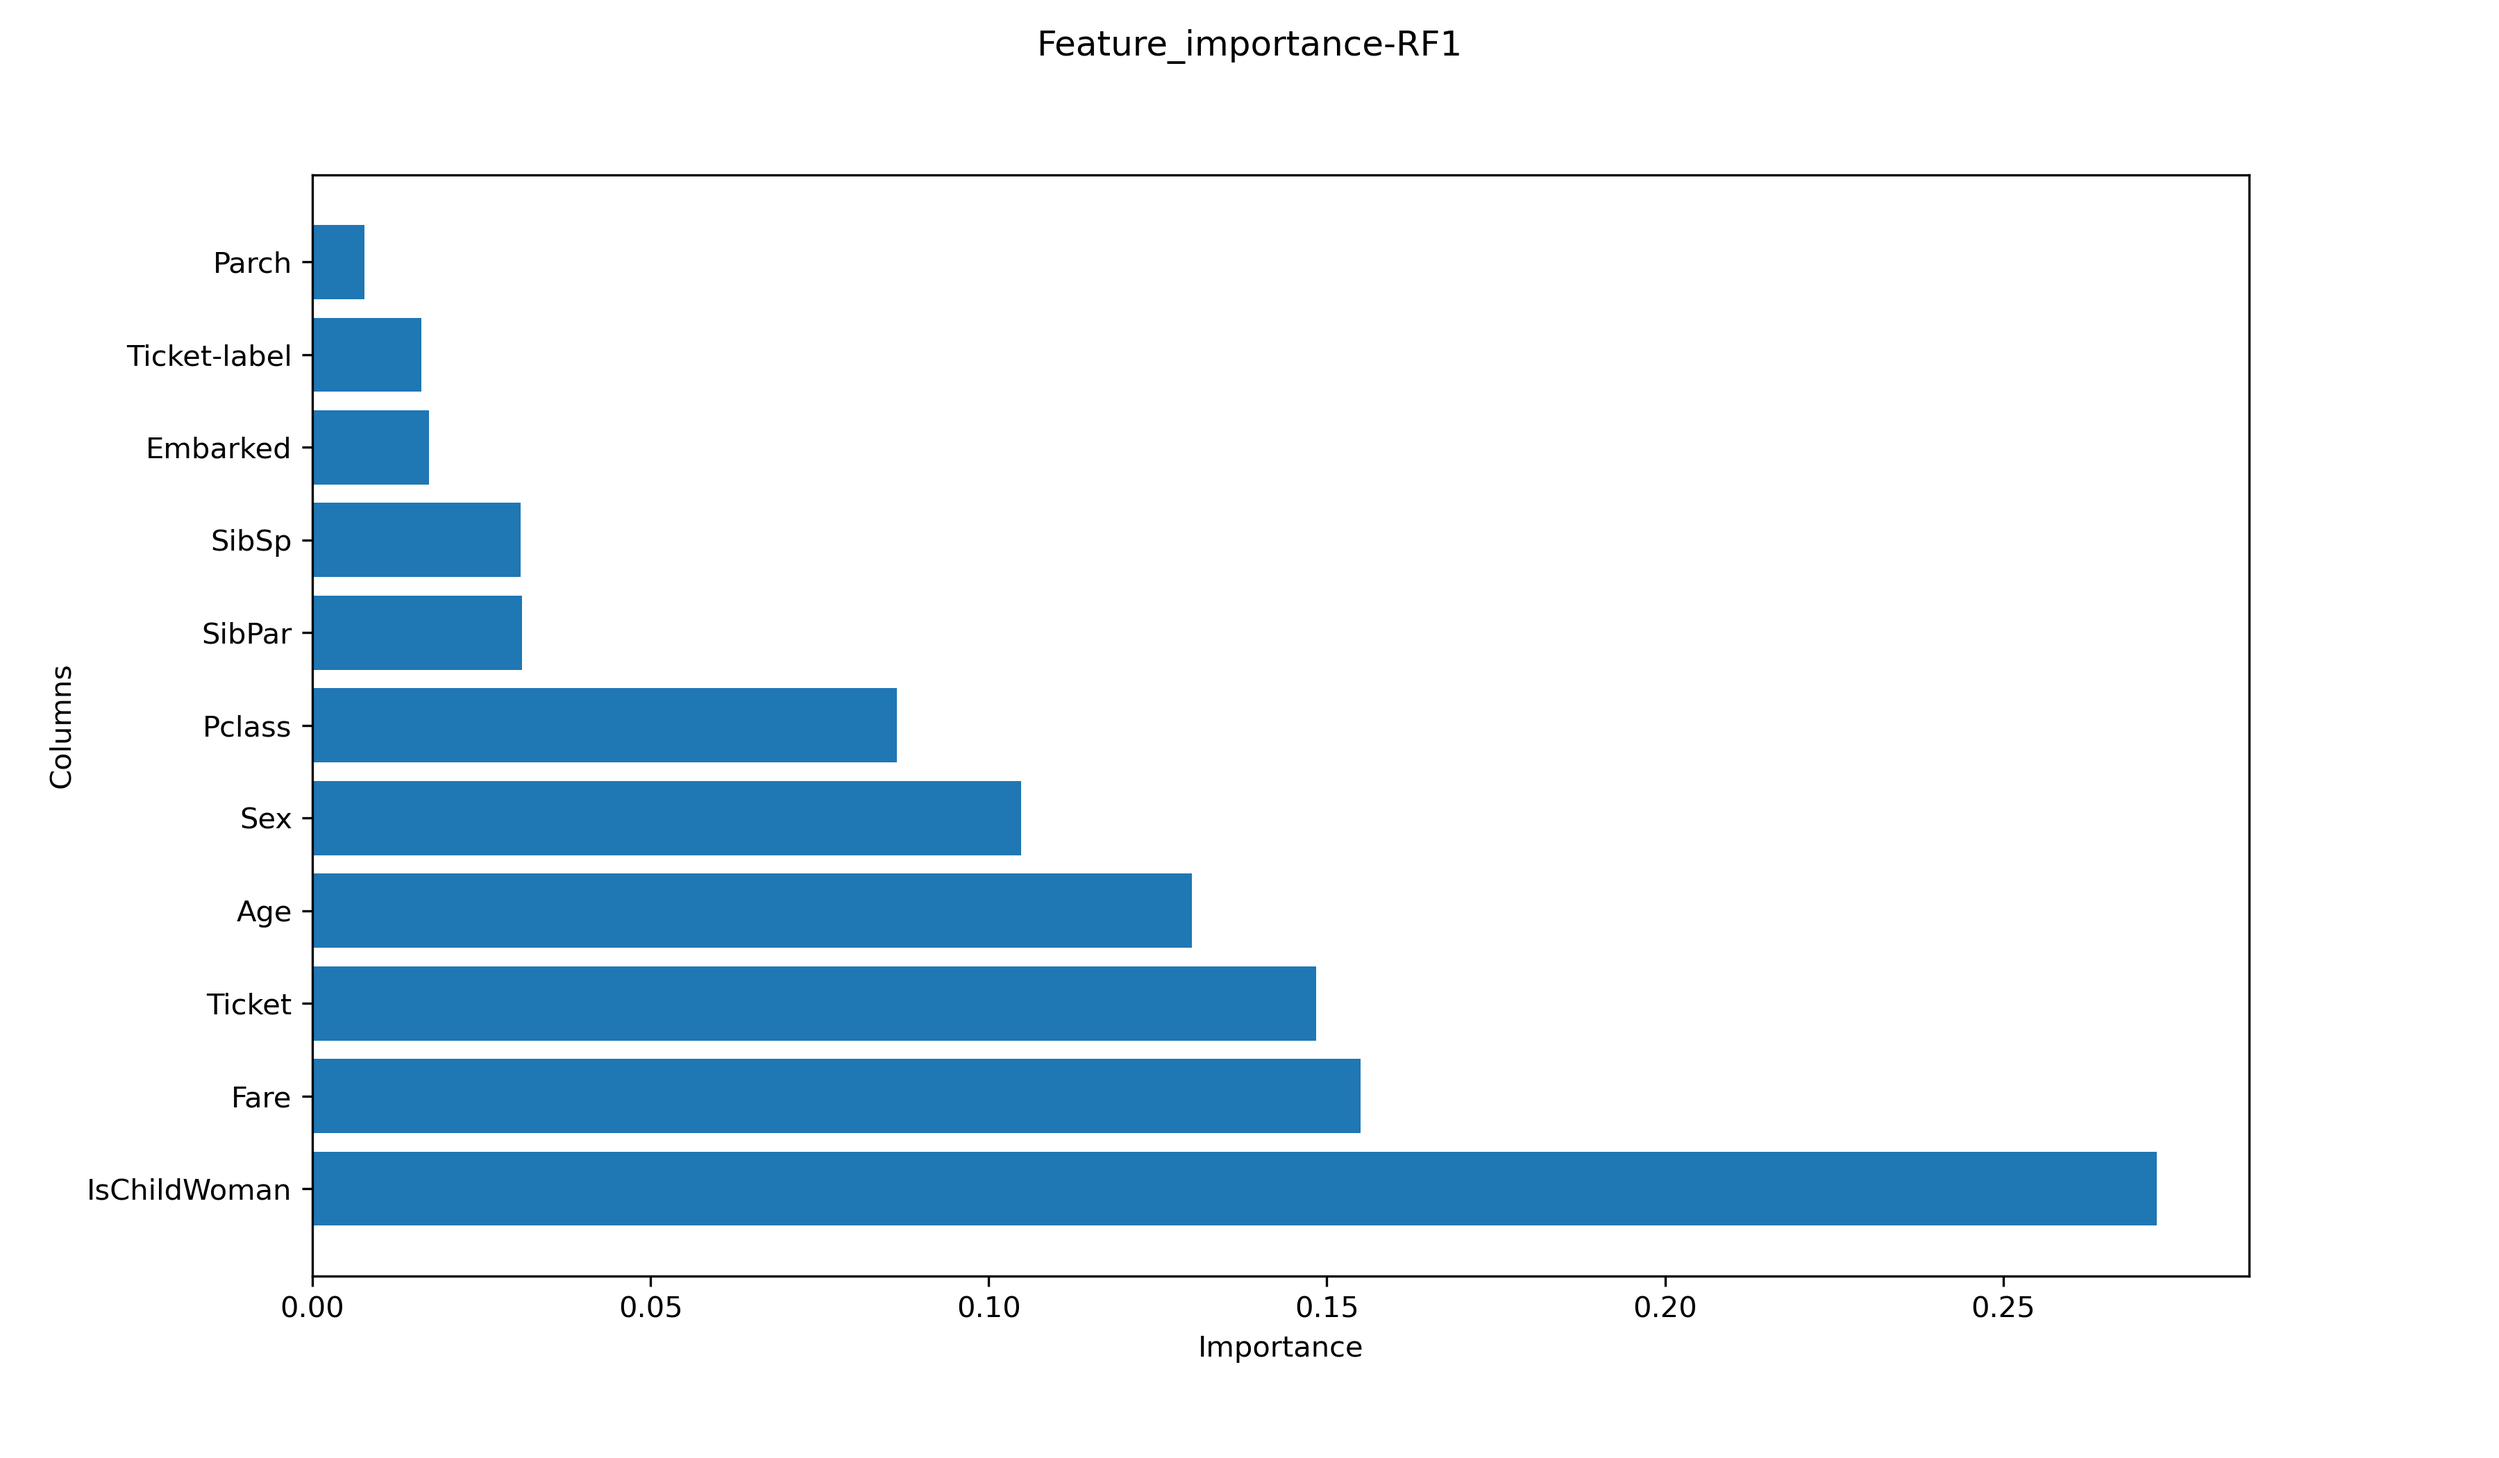
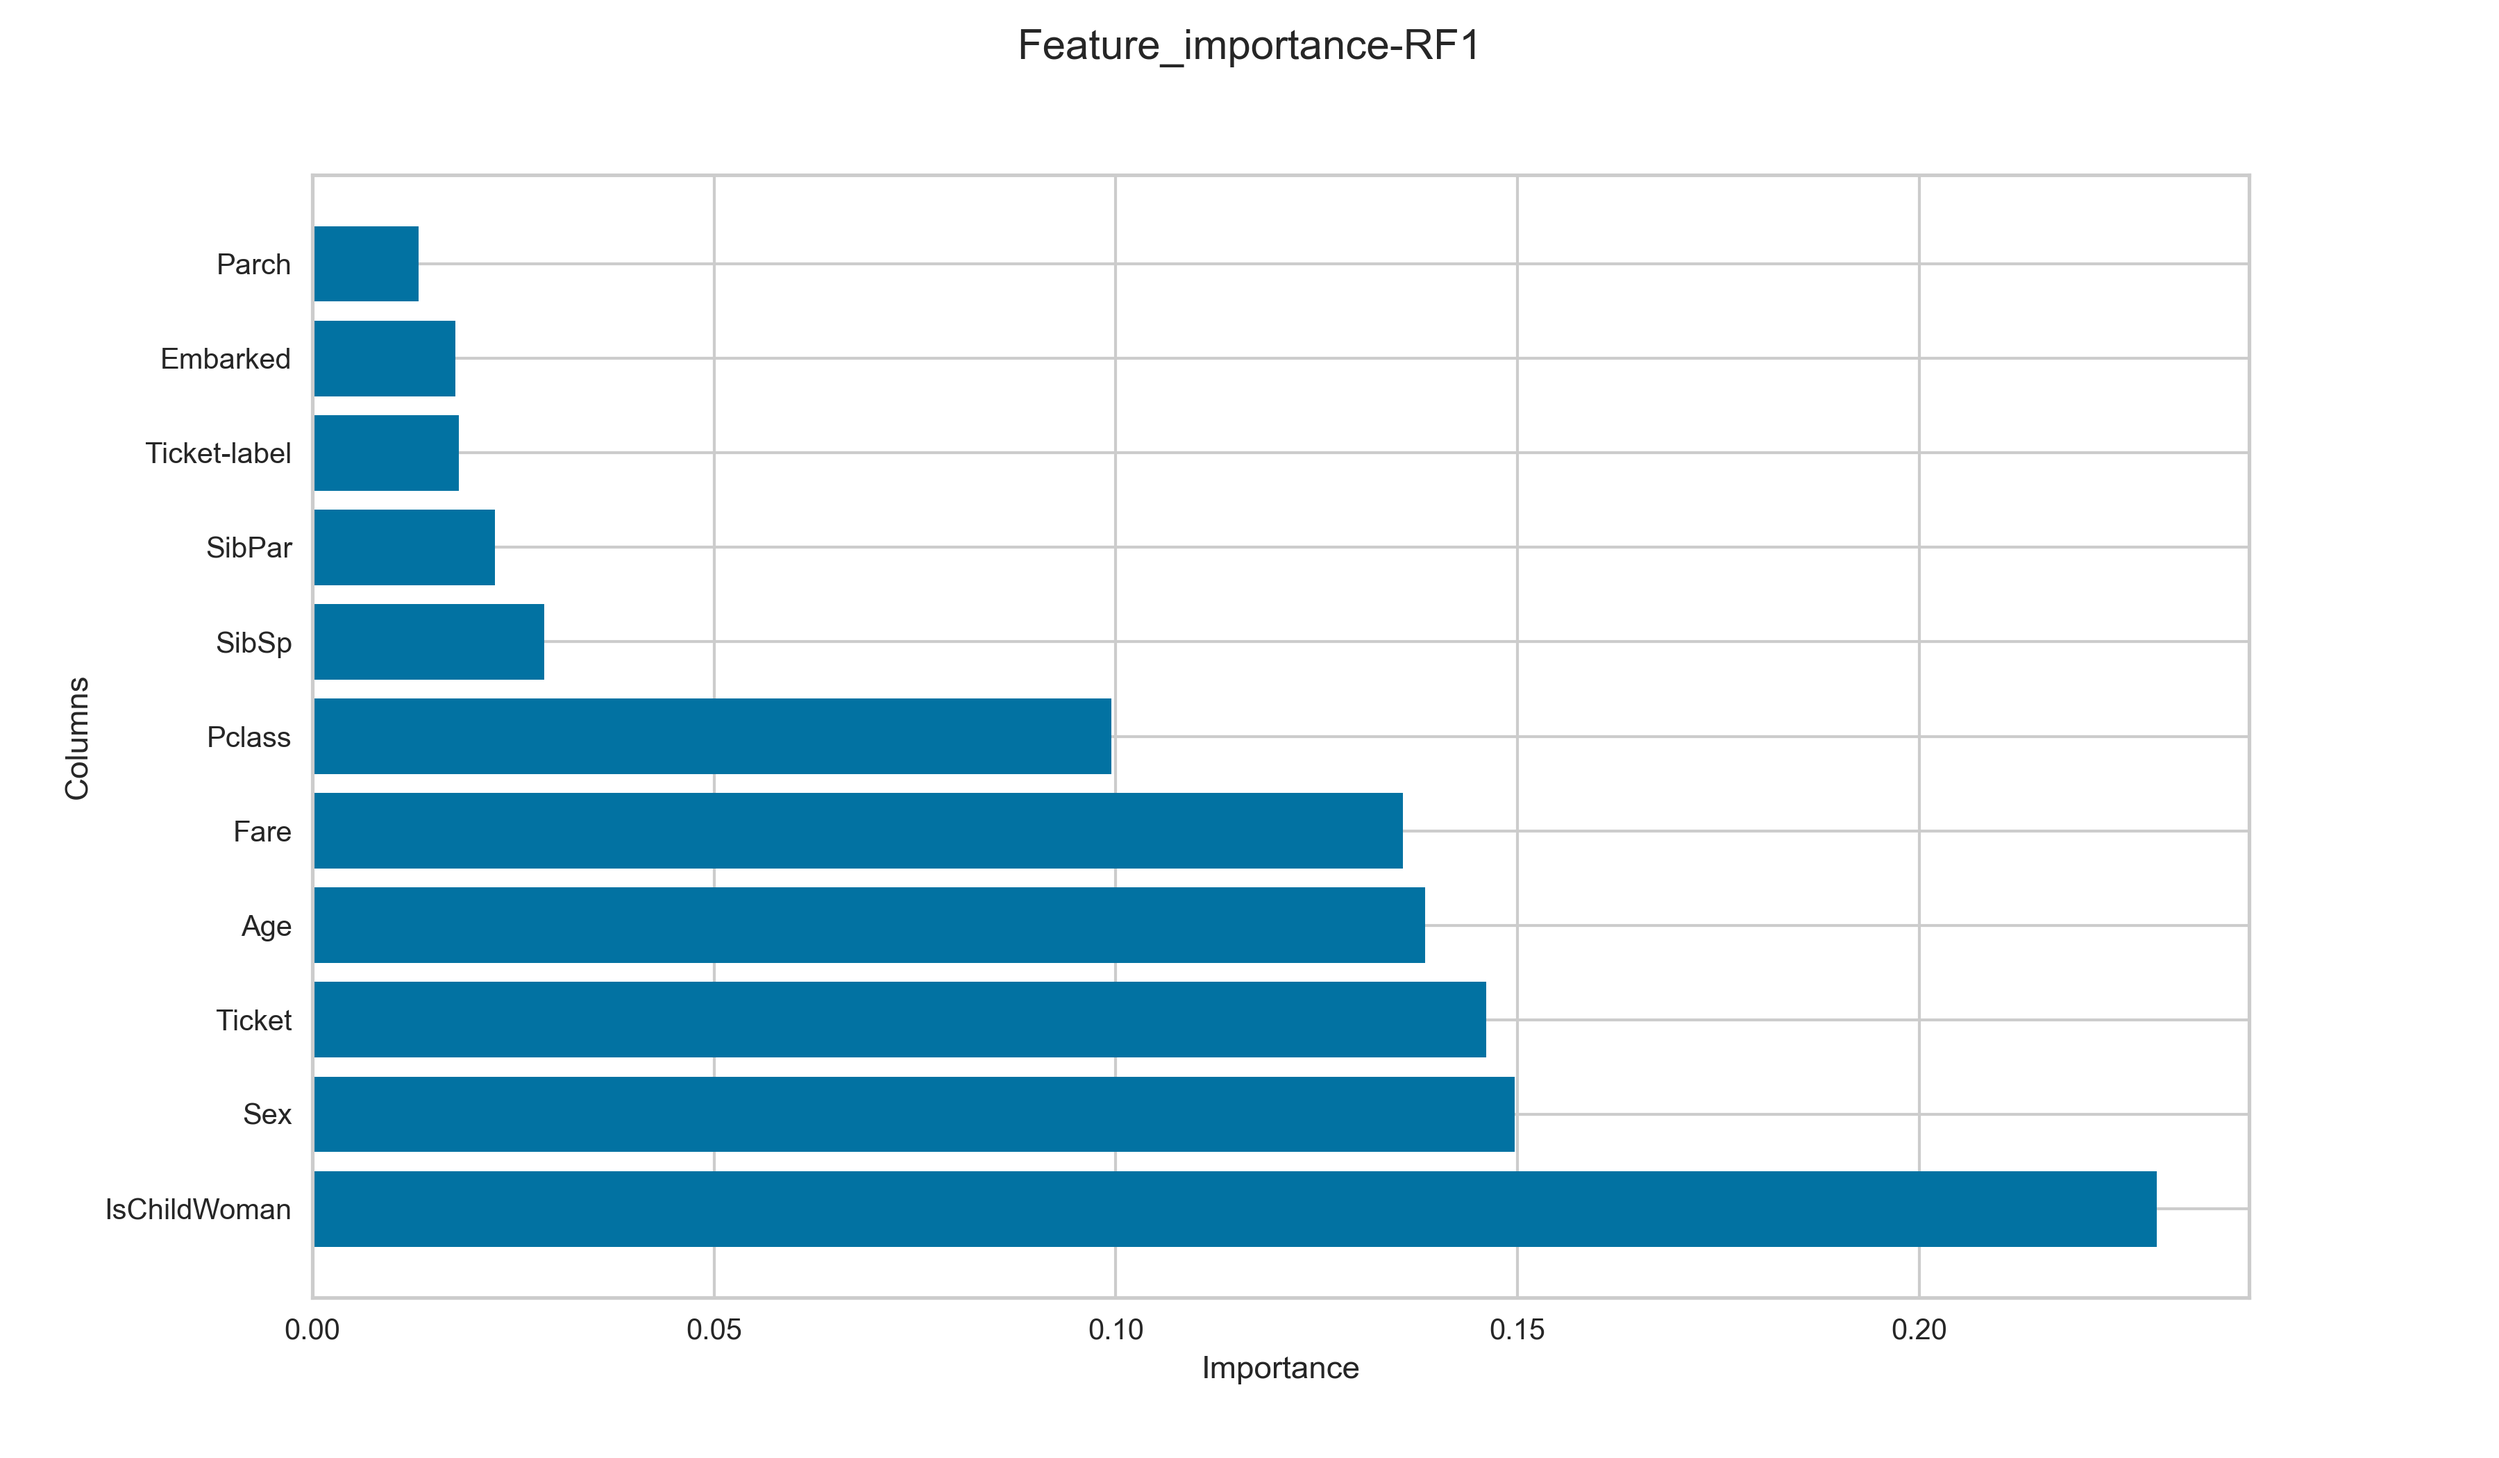
Add RF Optimized

Changed region(s): [[0.0311, 0.1548, 0.9022, 0.9595], [0.4044, 0.0, 0.5911, 0.0619], [0.0, 0.4643, 0.0311, 0.5262]]

diff --git a/Titanic_MachineLearning_from_Disaster/Random_Forest.py b/Titanic_MachineLearning_from_Disaster/Random_Forest.py
@@ -10,6 +10,8 @@ pytorch: 1.6.0
 sklearn: 0.23.1
 numpy: 1.18.5
 panadas: 1.0.5
+yellowbrick : 1.3.post1
+xgboost: 1.5.1
 """
 
 import pandas as pd
@@ -21,6 +23,17 @@ from sklearn.inspection import plot_partial_dependence
 from sklearn.ensemble import RandomForestClassifier
 from scipy.spatial.distance import pdist
 from scipy.cluster.hierarchy import linkage, dendrogram
+#------------------------------------------------------------------------------
+from sklearn import model_selection
+from sklearn.model_selection import train_test_split
+from sklearn.dummy import DummyClassifier
+from sklearn.linear_model import LogisticRegression
+from sklearn.neighbors import KNeighborsClassifier
+from sklearn.naive_bayes import GaussianNB
+from sklearn.svm import SVC
+from yellowbrick.classifier import ROCAUC
+import xgboost as xgb
+from sklearn.metrics import confusion_matrix
 
 
 dataPath = "./data/"
@@ -57,7 +70,6 @@ def plot_f_importance_model(fi,title,figsize=(12,7),save=False,**kwargs):
         plt.savefig('./reports/{}.png'.format(title), dpi = 300)
  
 
-
 def plot_tree_(Decission_Tree1,feature_names,figsize,max_depth=7,precision=2,save=False,**kwargs):
     fig, ax = plt.subplots(figsize=figsize)
     plot_tree(Decission_Tree1,feature_names=feature_names,max_depth=7,precision=2,ax=ax,**kwargs)
@@ -65,13 +77,12 @@ def plot_tree_(Decission_Tree1,feature_names,figsize,max_depth=7,precision=2,sav
         plt.savefig('./reports/Decission_tree.png', dpi = 300)
 
     
-
 def get_oob(x,y):
     model = RandomForestClassifier(n_estimators=60,
                                     max_samples=500,max_features=0.5,
                                     min_samples_leaf=3,oob_score=True,n_jobs=-1)
     model.fit(x,y)
-    return model.oob_score_
+    return round(model.oob_score_, 2)
 
 
 def getDendrogram(x,title,figsize=(12,7),metric='correlation',method='complete',orientation="left",save=False,**kwargs):
@@ -91,12 +102,39 @@ def plot_partial_dependence_(model,title,x,features,figsize=(12,7),save=False,**
     fig.suptitle(title)
     if save:
         plt.savefig('./reports/partial_dependence_{}.png'.format(title), dpi = 300)
-    
+
+
+def ensemble(y_train, y_val, x_train, x_val):
+    # save the best model
+    best_model = None
+    best_score = 0
+    # create the models
+    for model in [
+    DummyClassifier,
+    DecisionTreeClassifier,
+    KNeighborsClassifier,
+    GaussianNB,
+    SVC,
+    RandomForestClassifier]:
+        cls = model()
+        kfold = model_selection.KFold(n_splits=15, shuffle=True, random_state=0)
+        s = model_selection.cross_val_score(cls, x_train, y_train.values.ravel()
+        , scoring='accuracy', cv=kfold)
+        # Traing the model
+        cls.fit(x_train, y_train)
+        print(f"{model.__name__:22} AUC: "
+            f"{s.mean():.2f} STD: {s.std():.2f}" " Valid ACCU: {:.2f}%".format(accuracy(cls, x_val, y_val)*100)) 
+        if s.mean() > best_score:
+            best_score = s.mean()
+            best_model = cls
+    return best_model
+        
 
 if __name__ == "__main__":
-    data = to_save_or_load(None,dataPath+"data_frame.db",save=False) 
-        
-    x_data, y_data = data.drop(["Survived","Name","PassengerId","Title_Name"],axis=1), data["Survived"] 
+    #data = pd.read_pickle(dataPath+"data_frame.db.dat")
+    data = to_save_or_load(None,dataPath+'data_frame.db',save=False) 
+    
+    x_data, y_data = data.drop(["Survived","Name","PassengerId", "Title_Name"],axis=1), data["Survived"] 
     
     # Split train and validation set (20% of validation)
     x_train, x_val, y_train, y_val = train_test_split(x_data,y_data, 
@@ -113,13 +151,10 @@ if __name__ == "__main__":
     figsize=(12,7)
     plot_tree_(Decission_Tree1,feature_names,figsize,save=True)
     
-    
-    
     accT_DT_1 = accuracy(Decission_Tree1,x_train,y_train)
     accV_DT_1 = accuracy(Decission_Tree1,x_val,y_val)
-    print("Decission Tree 1 : Train Accuracy ----> {}".format(accT_DT_1))
-    print("Decission Tree 1 : Validation Accuracy ----> {}".format(accV_DT_1))
-    
+    print("Decission Tree 1 : Train ACCU : {:.3f}".format(accT_DT_1))
+    print("Decission Tree 1 : Valid ACCU : {:.2f}".format(accV_DT_1))
     
     
     # Lets Train and evaluate the first random forest
@@ -128,8 +163,8 @@ if __name__ == "__main__":
     
     accT_RF_1 = accuracy(Random_Forest1,x_train,y_train)
     accV_RF_1 = accuracy(Random_Forest1,x_val,y_val)
-    print("Random Forest 1 : Train Accuracy ----> {}".format(accT_RF_1))
-    print("Random Forest 1 : Validation Accuracy ----> {}".format(accV_RF_1))
+    print("Random Forest 1 : Train ACCU : {:.3f}".format(accT_RF_1))
+    print("Random Forest 1 : Valid ACCU : {:.3f}".format(accV_RF_1))
     
     # Check the importance features
     f_importance_rf1 = f_importances_model(Random_Forest1, x_train)
@@ -144,15 +179,14 @@ if __name__ == "__main__":
     x_train_Parch = x_train.drop(["Parch"],axis=1)
     x_val_Parch = x_val.drop(["Parch"],axis=1)
     
-    
-    
+
     # Lets Train and evaluate the second random forest
     Random_Forest2 = random_forest(x_train_Parch,y_train,max_samples=max_samples,class_weight="balanced_subsample")
     
     accT_RF_2 = accuracy(Random_Forest2,x_train_Parch,y_train)
     accV_RF_2 = accuracy(Random_Forest2,x_val_Parch,y_val)
-    print("Random Forest 2 : Train Accuracy ----> {}".format(accT_RF_2))
-    print("Random Forest 2 : Validation Accuracy ----> {}".format(accV_RF_2))
+    print("Random Forest 2 : Train ACCU : {:.3f}".format(accT_RF_2))
+    print("Random Forest 2 : Valid ACCU : {:.3f}".format(accV_RF_2))
     # we observe the performance improve for validation 
     # Check the importance features
     f_importance_rf2 = f_importances_model(Random_Forest2, x_train_Parch)
@@ -161,33 +195,31 @@ if __name__ == "__main__":
     # plot the importance features of random forest 2
     title = "Feature_importance-RF2"
     plot_f_importance_model(f_importance_rf2,title,save=True)
-    
-    
+
     # Lets remove Redundant Features
     title = "Dendogram-RF2"
     getDendrogram(x_train_Parch,title,save=True)
     
-    
     # Lets check out SibPar and SibSp and their effect in performance
     origin = get_oob(x_train_Parch, y_train)
-    print("Random Forest 2 : oob score - Full features ----> {}".format(origin))
-    
+    print("Random Forest 2 : oob score - Full features : {}".format(origin))
     
     # get oob score erasing SibPar and SibSp
-    obb_scores = {"obb score without " + col:get_oob(x_train_Parch.drop(col,axis=1), y_train) for col in ("SibPar","SibSp")}
+    obb_scores = {"obb score without " + col:get_oob(x_train_Parch.drop(col,axis=1)
+    , y_train) for col in ("SibPar","SibSp")}
     print(obb_scores)
     # removing SibPar, it almost has the same performance.
     x_train_SibPar =  x_train_Parch.drop(["SibSp"],axis=1)
     x_val_SibPar = x_val_Parch.drop(["SibSp"],axis=1)
-    
-    
+
     # Lets Train and evaluate the third random forest
-    Random_Forest3 = random_forest(x_train_SibPar,y_train,max_samples=max_samples,class_weight="balanced_subsample")
+    Random_Forest3 = random_forest(x_train_SibPar,y_train,max_samples=max_samples
+    ,class_weight="balanced_subsample")
     
     accT_RF_3 = accuracy(Random_Forest3,x_train_SibPar,y_train)
     accV_RF_3 = accuracy(Random_Forest3,x_val_SibPar,y_val)
-    print("Random Forest 3 : Train Accuracy ----> {}".format(accT_RF_3))
-    print("Random Forest 3 : Validation Accuracy ----> {}".format(accV_RF_3))
+    print("Random Forest 3 : Train ACCU : {:.3f}".format(accT_RF_3))
+    print("Random Forest 3 : Valid ACCU : {:.3f}".format(accV_RF_3))
     # we observe the performance improve for validation 
     f_importance_rf3 = f_importances_model(Random_Forest3, x_train_SibPar)
     f_importance_rf3 
@@ -200,45 +232,31 @@ if __name__ == "__main__":
     title = "RF3"
     features = ["IsChildWoman","Ticket","Fare","Sex","Age"]
     plot_partial_dependence_(Random_Forest3,title,x_val_SibPar,features,save=True)
-    
-    
-    
-    
-    
-    
-    
-    
-    
-    
-    
-    
-    
-    
-    
-    
-    
-    
-    
-    
-    
-    
-    
-    
-    
-    
-
-    
-    
-    
-    
-    
-    
-    
-    
-
-
-
-
-
-
-
+    # Begin ensemble training
+    print('-----------------------------------------------------------')
+    print('Ensemble results :')
+    best_model = ensemble(y_train, y_val, x_train_SibPar, x_val_SibPar)
+    print('-----------------------------------------------------------')
+    # The best model is:
+    print("Best Model : {}".format(best_model))
+    best_model = RandomForestClassifier()
+    # Grid Search
+    print('-----------------------------------------------------------')
+    params = {'n_estimators': [300],
+                'max_features': [0.6],
+                'max_depth': [9],
+                'min_samples_split': [2],
+                'min_samples_leaf': [3],
+                'random_state': [0]}
+    print('Grid Search results :')
+    print(params)
+    cv = RandomForestClassifier(n_estimators=300, max_features=0.6
+    , max_depth=9, min_samples_split=2, min_samples_leaf=3, random_state=0)
+    #cv = model_selection.GridSearchCV(best_model, params, n_jobs=-1)
+    cv.fit(x_train_SibPar, y_train)
+    #print("Best parameters : {}".format(cv.best_params_))
+    print("Train ACCU : {:.3f}".format(accuracy(cv,x_train_SibPar,y_train))
+    ,  "Valid ACCU : {:.3f}".format(accuracy(cv,x_val_SibPar,y_val)))
+    #print("Best score : {}".format(cv.best_score_))
+    print('-----------------------------------------------------------')
+    # Confusion Matrix

diff --git a/Titanic_MachineLearning_from_Disaster/dataPreparation.py b/Titanic_MachineLearning_from_Disaster/dataPreparation.py
@@ -25,8 +25,8 @@ from sklearn.impute import KNNImputer
 
 
 # data folder  path
-#dataPath = "./data/"
-dataPath = "C:/Users/ivan_/Desktop/UDEMY/GitHub/Machine_Learning_Projects/Titanic_MachineLearning_from_Disaster/data/"
+dataPath = "./data/"
+#dataPath = "C:/Users/ivan_/Desktop/UDEMY/GitHub/Machine_Learning_Projects/Titanic_MachineLearning_from_Disaster/data/"
 
 def data_analysis(data, profile_mode = False, data_name = "data_train"):
     """ This is a function to perform a general analysis of the data.
